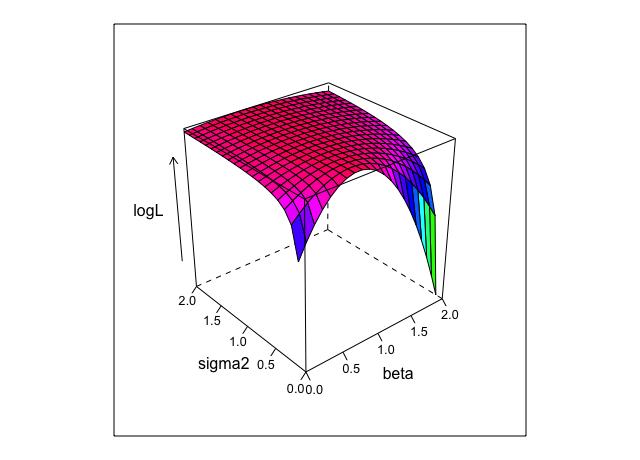
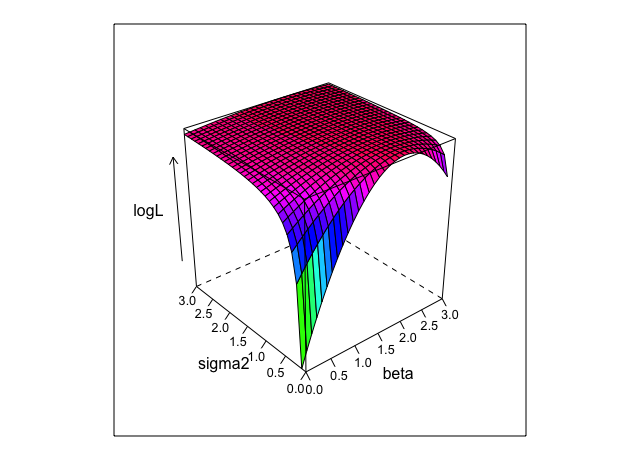
update r code

diff --git a/_posts/2016-10-27-mle-notes.md b/_posts/2016-10-27-mle-notes.md
@@ -38,17 +38,17 @@ reg y x
 
 ## The likelihood function maximization
 
-Let's now expand our example to something a bit more sophisticated. The basic idea still is that we have some points in `x` and `y`, and we want to know the parameters $$\mu$$ and $$\sigma$$ that most likely fit the data. We're going to start by cheating and generating the data with known parameters:
+Let's now expand our example to something a bit more sophisticated. The basic idea still is that we have some points in `x` and `y`, and we want to know the parameters $$\beta$$ and $$\sigma$$ that most likely fit the data. We're going to start by cheating and generating the data with known parameters:
 
 ```R
 # The true parameters
-beta <- 1.5
-sigma2 <- 0.5
+beta <- 2
+sigma2 <- 1
 
 # Generate dataset
-data   <- data.frame(x = runif(300, 1, 10))
-data$y <- 0 + 0.5*beta*data$x + rnorm(300, 0, sigma2)
-plot(data$x, data$y)
+data   <- data.frame(x = runif(100, 1, 10))
+data$y <- beta*data$x + rnorm(100, 0, sigma2)
+plot(data$x, data$y, xlab="x", ylab="y")
 ```
 
 continues...
@@ -56,6 +56,7 @@ continues...
 ![Plot of likelihood function](/files/mle_max_plot.png "There is a maximum somewhere")
 
 # A bit of math
+
 We know that the maximization problem is
 
 $$ L(\hat{\boldsymbol{\theta}};\boldsymbol{Z}) = \max_{\boldsymbol{t}\in\Theta} L(\boldsymbol{t};\boldsymbol{Z}) $$
